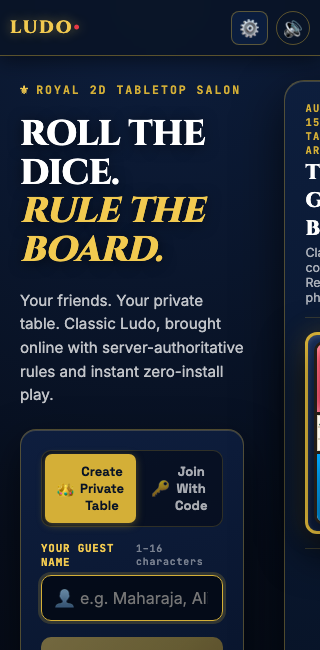
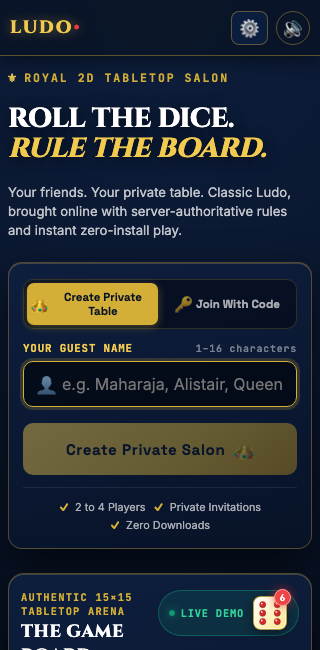
fix(mobile): enforce single-column landing layout on screens <= 960px to prevent horizontal grid squeeze

diff --git a/ludo/apps/web/src/style.css b/ludo/apps/web/src/style.css
@@ -654,6 +654,112 @@ body {
   letter-spacing: 0.5px;
 }
 
+/* --- Landing Page Responsive Layouts --- */
+@media (max-width: 960px) {
+  .landing-stage {
+    padding: 20px 16px 40px;
+  }
+
+  .landing-content-grid {
+    grid-template-columns: 1fr;
+    gap: 32px;
+  }
+
+  .hero-column {
+    max-width: 560px;
+    margin: 0 auto;
+    width: 100%;
+  }
+
+  .board-column {
+    width: 100%;
+    max-width: 520px;
+    margin: 0 auto;
+  }
+}
+
+@media (max-width: 640px) {
+  .landing-stage {
+    padding: 16px 12px 36px;
+  }
+
+  .landing-content-grid {
+    grid-template-columns: 1fr;
+    gap: 24px;
+  }
+
+  .hero-headline {
+    font-size: clamp(1.85rem, 7.5vw, 2.3rem);
+    line-height: 1.12;
+  }
+
+  .hero-subtitle {
+    font-size: 0.9rem;
+    line-height: 1.45;
+  }
+
+  .table-entry-card {
+    padding: 16px 14px;
+    border-radius: 14px;
+    gap: 12px;
+  }
+
+  .table-tab-pill {
+    padding: 8px 6px;
+    font-size: 0.78rem;
+    gap: 4px;
+  }
+
+  .table-specs-row {
+    flex-wrap: wrap;
+    gap: 6px 12px;
+    justify-content: center;
+  }
+
+  .landing-board-showcase {
+    padding: 16px 12px;
+    border-radius: 16px;
+    gap: 12px;
+  }
+
+  .board-specs-strip {
+    flex-wrap: wrap;
+    gap: 8px 12px;
+  }
+}
+
+@media (max-width: 380px) {
+  .landing-stage {
+    padding: 12px 8px 28px;
+  }
+
+  .hero-headline {
+    font-size: 1.7rem;
+  }
+
+  .hero-subtitle {
+    font-size: 0.82rem;
+  }
+
+  .table-tab-pill {
+    font-size: 0.72rem;
+    padding: 7px 4px;
+  }
+
+  .table-specs-row {
+    font-size: 0.68rem;
+    gap: 4px 8px;
+  }
+
+  .board-showcase-title {
+    font-size: 1.1rem;
+  }
+
+  .board-showcase-subtitle {
+    font-size: 0.72rem;
+  }
+}
+
 /* ==========================================================================
    Screen 2: Waiting Room / Private Lobby
    ========================================================================== */
